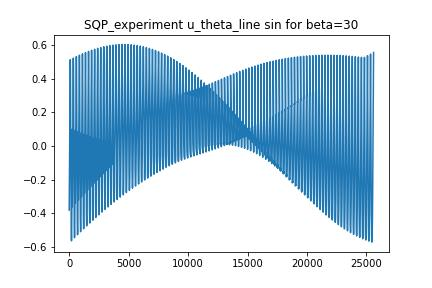
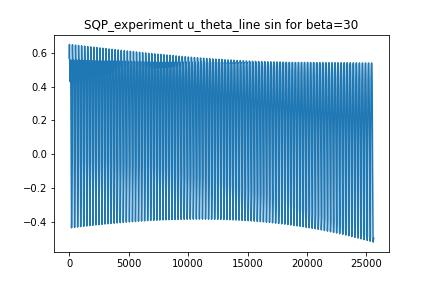
current

diff --git a/pde_cons_opt_code/optim_sqp.py b/pde_cons_opt_code/optim_sqp.py
@@ -93,7 +93,6 @@ class SQP_Optim:
         rk = thetak * yk + (1 - thetak) * Hk @ sk
         Hk1 = Hk - ((Hk @ sk @ sk.T @ Hk) / skHksk) + ((rk @ rk.T) / (sk.T @ rk))
         Hk1 = 0.5 * (Hk1 + Hk1.T)
-        print(self.is_psd(Hk1))
         if self.is_psd(Hk1):
             return Hk1
         else:
@@ -157,7 +156,7 @@ class SQP_Optim:
         kkt_residual_list = []
         shapes = pd.DataFrame.from_dict(unfreeze(params["params"])).applymap(lambda x: x.shape).values.flatten()
         sizes = [np.prod(shape) for shape in shapes]
-        # Hk = self.hessian_param * jnp.identity(sum(sizes))
+        updated_Hk = self.hessian_param * jnp.identity(sum(sizes))
         for _ in tqdm(range(num_iter)):
             gra_obj = jacfwd(self.obj, 0)(params)
             gra_eq_cons = jacfwd(self.eq_cons, 0)(params)
@@ -166,17 +165,24 @@ class SQP_Optim:
             flatted_gra_obj = self.flat_single_dict(gra_obj)
             flatted_current_params = self.flat_single_dict(params)
             flatted_gra_eq_cons = self.flat_multi_dict(gra_eq_cons)
-            # Q = Hk
-            Q = self.hessian_param * jnp.identity(flatted_gra_obj.shape[0])
+
             c = flatted_gra_obj
             A = jnp.array(jnp.split(flatted_gra_eq_cons, 2*self.M))
             li_ind_index = self.get_li_in_cons_index(A, qr_ind_tol)
             A = A[li_ind_index, :]
             b = -eq_cons[li_ind_index]
-            # sol = self.qp.run(params_obj=(Q, c), params_eq=(A, b)).params
-            sol = self.qp.run(init_params=params, params_obj=(Q, c), params_eq=(A, b), params_ineq=None)
+            li_d_index = jnp.sort(jnp.setdiff1d(jnp.arange(2*self.M), li_ind_index))
+
+            try:
+                Q = updated_Hk
+                sol = self.qp.run(init_params=params, params_obj=(Q, c), params_eq=(A, b), params_ineq=None)
+            except:
+                Q = self.hessian_param * jnp.identity(sum(sizes))
+                sol = self.qp.run(init_params=params, params_obj=(Q, c), params_eq=(A, b), params_ineq=None)
+            else:
+                Hk = updated_Hk
+
             flatted_delta_params = sol.params.primal
-            # kkt_residual = self.qp.l2_optimality_error(params=sol, params_obj=(Q, c), params_eq=(A, b))
             kkt_residual = self.qp.l2_optimality_error(params=sol.params, params_obj=(Q, c), params_eq=(A, b), params_ineq=None)
             delta_params = self.get_recovered_dict(flatted_delta_params, shapes, sizes)
             partial_optim_components_merit_func = partial(self.merit_func, merit_func_penalty_param=merit_func_penalty_param)
@@ -186,12 +192,22 @@ class SQP_Optim:
                                     descent_direction=delta_params,
                                             value=current_obj, grad=gra_obj)
             flatted_updated_params = stepsize * flatted_delta_params + flatted_current_params
-            params = self.get_recovered_dict(flatted_updated_params, shapes, sizes)
-            # Hk = self.bfgs_hessian(params, updated_params, sol.params.dual_eq, stepsize, flatted_delta_params, Hk)
-            # params = updated_params
+            updated_params = self.get_recovered_dict(flatted_updated_params, shapes, sizes)
+            mulk1 = sol.params.dual_eq
+            
+            if len(li_d_index) != 0:
+                for i, index in enumerate(li_d_index):
+                    if i != 0:
+                        mulk1 = jnp.insert(mulk1, index+1, 1.0)
+                    else:
+                        mulk1 = jnp.insert(mulk1, index, 1.0)
+            
+            updated_Hk = self.bfgs_hessian(params, updated_params, mulk1, stepsize, flatted_delta_params, Hk)
+            params = updated_params
             obj_list.append(self.obj(params))
             eq_con_list.append(self.eq_cons_loss(params))
             kkt_residual_list.append(kkt_residual)
+            
         return params, obj_list, eq_con_list, kkt_residual_list
         
 
@@ -201,3 +217,5 @@ class SQP_Optim:
         l2_relative_error = 1/N * (jnp.linalg.norm((u_theta-ui), ord = 2) / jnp.linalg.norm((ui), ord = 2))
         return absolute_error, l2_relative_error, u_theta
  
+
+

diff --git a/pde_cons_opt_code/main1.py b/pde_cons_opt_code/main1.py
@@ -69,8 +69,8 @@ t_sample_max = 1
 NN_key_num = 345
 key = random.PRNGKey(NN_key_num)
 # features = [50, 50, 50, 50, 1]
-features = [10, 10, 1] # 搭配 SQP_num_iter = 100， hessian_param = 0.6 # 0.6最好， init_stepsize = 1.0， line_search_tol = 0.001， line_search_max_iter = 30， line_search_condition = "strong-wolfe" ，line_search_decrease_factor = 0.8
-# features = [2, 3, 1]
+# features = [10, 10, 1] # 搭配 SQP_num_iter = 100， hessian_param = 0.6 # 0.6最好， init_stepsize = 1.0， line_search_tol = 0.001， line_search_max_iter = 30， line_search_condition = "strong-wolfe" ，line_search_decrease_factor = 0.8
+features = [2, 3, 1]
 ####################################### config for NN #######################################
 
 
